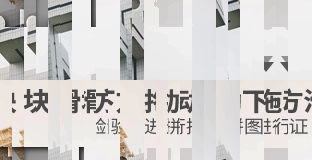
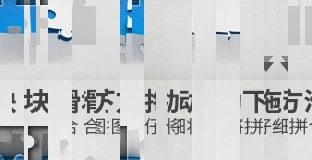
revise

diff --git a/picture.py b/picture.py
@@ -1,0 +1,63 @@
+from PIL import Image, ImageChops
+import numpy as np
+
+
+class ImageHandler(object):
+    @classmethod
+    def subtract(cls, bg, fullbg):
+        image = ImageChops.difference(cls.spell(fullbg), cls.spell(bg))
+        image = image.point(lambda x: 255 if x > 80 else 0)
+        image = image.resize((260, 160), Image.ANTIALIAS)
+        image.save('diff.jpg')
+        return cls.calculate_x(image)
+
+    @staticmethod
+    def spell(image):
+        mapping_before_exchange = {
+            0: 39, 1: 38, 2: 48, 3: 49, 4: 41, 5: 40, 6: 46, 7: 47, 8: 35, 9: 34, 10: 50, 11: 51, 12: 33, 13: 32, 14: 28,
+            15: 29, 16: 27, 17: 26, 18: 36, 19: 37, 20: 31, 21: 30, 22: 44, 23: 45, 24: 43, 25: 42, 26: 12, 27: 13, 28: 23,
+            29: 22, 30: 14, 31: 15, 32: 21, 33: 20, 34: 8, 35: 9, 36: 25, 37: 24, 38: 6, 39: 7, 40: 3, 41: 2, 42: 0, 43: 1,
+            44: 11, 45: 10, 46: 4, 47: 5, 48: 19, 49: 18, 50: 16, 51: 17,
+        }
+        mapping = {value: key for key, value in mapping_before_exchange.items()}
+
+        matrix = np.array(image)
+        m1 = matrix[0: 80]
+        m2 = matrix[80: 160]
+        s1 = [np.array([i[j: j + 12] for i in m1]) for j in range(0, 312, 12)]
+        s2 = [np.array([i[j: j + 12] for i in m2]) for j in range(0, 312, 12)]
+        s = s1 + s2
+
+        dic = {key: value for key, value in enumerate(s)}
+        dic_exchange = {mapping[i]: dic[i] for i in range(52)}
+
+        lis = [i[1] for i in sorted(dic_exchange.items(), key=lambda x: x[0])]
+
+        n = []
+        for i in range(80):
+            n1 = []
+            for j in lis[0: 26]:
+                n1.extend(list(j[i]))
+            n.append(n1)
+
+        for i in range(80):
+            n2 = []
+            for j in lis[26: 52]:
+                n2.extend(list(j[i]))
+            n.append(n2)
+
+        image = Image.fromarray(np.array(n))
+        return image
+
+    @staticmethod
+    def calculate_x(image):
+        for i in range(0, image.width):
+            count = 0
+            for j in range(0, image.height):
+                pixel = image.getpixel((i, j))
+                if pixel != (0, 0, 0):
+                    count += 1
+
+            if count >= 5:
+                x = i + 23 - 30
+                return x

diff --git a/main.py b/main.py
@@ -2,8 +2,8 @@ import time
 import requests
 import json
 import execjs
-from PIL import Image, ImageChops
-from ImageHandle import handle, calculate_x
+from PIL import Image
+from picture import ImageHandler
 import logging
 
 
@@ -62,7 +62,7 @@ def api_get():
     return data
 
 
-def get_image(data):
+def get_pos(data):
     bg_url = 'http://static.geetest.com/' + data['bg']
     bg_response = session.get(url=bg_url, headers=headers)
     with open('bg.jpg', 'wb') as f:
@@ -73,14 +73,8 @@ def get_image(data):
     with open('fullbg.jpg', 'wb') as f:
         f.write(fullbg_response.content)
 
-    bg = handle(Image.open('bg.jpg'))
-    fullbg = handle(Image.open('fullbg.jpg'))
-
-    image = ImageChops.difference(fullbg, bg)
-    image = image.point(lambda x: 255 if x > 80 else 0)
-    image = image.resize((260, 160), Image.ANTIALIAS)
-    image.save('diff.jpg')
-    return calculate_x(image)
+    pos = ImageHandler.subtract(Image.open('bg.jpg'), Image.open('fullbg.jpg'))
+    return pos
 
 
 def api_ajax(x, data):
@@ -119,7 +113,7 @@ if __name__ == '__main__':
     print(res1)
 
     api_get_result = api_get()
-    slider_x = get_image(api_get_result)
+    slider_x = get_pos(api_get_result)
     logging.info('滑块到达位置：{x}'.format(x=slider_x))
     time.sleep(1)
 

diff --git a/README.md b/README.md
@@ -1,4 +1,4 @@
 # jiyan
-运行jiyan.py模拟极验滑动验证，成功率60%以上，极验JS代码版本更新快，现版本无效。
+运行main.py模拟极验滑动验证，成功率60%以上，极验JS代码版本更新快，现版本无效。
 
-逆向混淆JS加密代码，用PyexecJS调Node.js执行，缺口位置用简单的图片处理求出。
+逆向混淆JS加密代码，用PyexecJS调Node.js执行，缺口位置用简单的图片处理得出。
